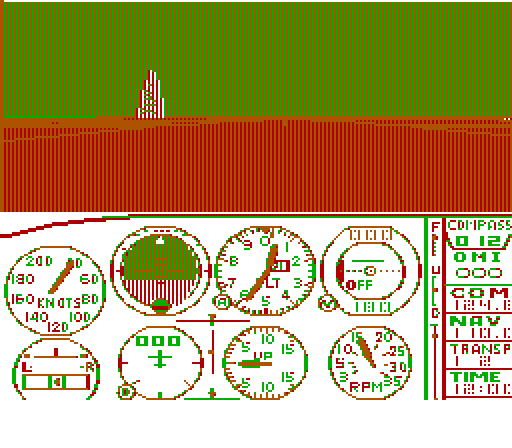
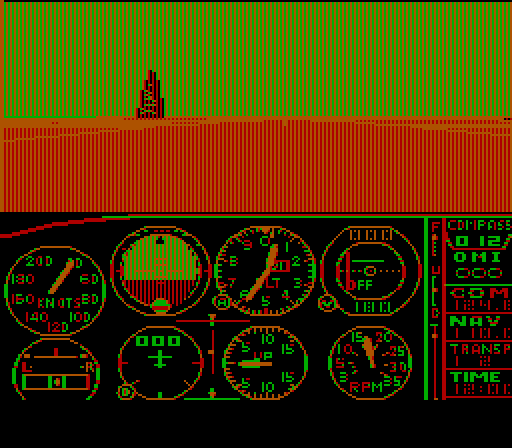
docs: expand compatibility gallery; drop non-working BIGMEM titles
Gallery + "Tested software" table now cover more of what runs on MS-DOS:
- New shots: Zork II, Zork III, Planetfall, Wishbringer (Infocom),
  PC DOS 2.00, and Turbo Pascal 3.01A.
- FS1 gallery image updated to a cleaner in-flight capture.

Drop Elite and Starglider from the compatibility doc: neither renders on the
current build. Starglider ran under the old PC-DOS build and regressed during
the MS-DOS port (it now stalls in what looks like its self-unpacker and never
reaches graphics) -- logged in FUTURE.md as an investigation to bisect. Rogue
is the BIGMEM title that works. Updated COMPATIBILITY.md, FUTURE.md,
BUILDING.md, and the dosboot_big.asm header comment.

Claude-Session: https://claude.ai/code/session_014nK3wEPCoHrVcz85hvr1JS

diff --git a/docs/COMPATIBILITY.md b/docs/COMPATIBILITY.md
@@ -19,15 +19,27 @@ All captured from snes86 running in Mesen.
 <table>
 <tr>
 <td align="center"><img src="assets/boot.png" width="400"><br><sub>MS-DOS 2.0 booting to <code>C:\></code></sub></td>
-<td align="center"><img src="assets/sokoban.png" width="400"><br><sub>Sokoban — our own CGA game, with source</sub></td>
+<td align="center"><img src="assets/pcdos.png" width="400"><br><sub>PC DOS 2.00 — the original bring-up target</sub></td>
 </tr>
 <tr>
 <td align="center"><img src="assets/gwbasic.png" width="400"><br><sub>GW-BASIC 3.23</sub></td>
-<td align="center"><img src="assets/wordstar.png" width="400"><br><sub>WordStar 3.31</sub></td>
+<td align="center"><img src="assets/tp3.png" width="400"><br><sub>Turbo Pascal 3.01 — the compiler that builds our tools</sub></td>
 </tr>
 <tr>
+<td align="center"><img src="assets/wordstar.png" width="400"><br><sub>WordStar 3.31</sub></td>
 <td align="center"><img src="assets/multiplan.png" width="400"><br><sub>Multiplan</sub></td>
+</tr>
+<tr>
 <td align="center"><img src="assets/zork.png" width="400"><br><sub>Zork I — Infocom interactive fiction</sub></td>
+<td align="center"><img src="assets/zork2.png" width="400"><br><sub>Zork II: The Wizard of Frobozz</sub></td>
+</tr>
+<tr>
+<td align="center"><img src="assets/zork3.png" width="400"><br><sub>Zork III: The Dungeon Master</sub></td>
+<td align="center"><img src="assets/planetfall.png" width="400"><br><sub>Planetfall</sub></td>
+</tr>
+<tr>
+<td align="center"><img src="assets/wishbringer.png" width="400"><br><sub>Wishbringer</sub></td>
+<td align="center"><img src="assets/sokoban.png" width="400"><br><sub>Sokoban — our own CGA game, with source</sub></td>
 </tr>
 <tr>
 <td align="center"><img src="assets/rogue.png" width="400"><br><sub>Rogue — the dungeon (needs BIGMEM)</sub></td>
@@ -47,6 +59,7 @@ All captured from snes86 running in Mesen.
 | category | software | status | notes |
 |---|---|---|---|
 | OS / shell | MS-DOS 2.0 (MIT) | ✅ shipped | `DIR`, `PATH`, `PROMPT`, batch files, `VER`, redirection |
+| | PC DOS 2.00 | ✅ tested | the original bring-up target; MS-DOS ships instead, but `.IFDEF PCDOS` still boots it |
 | Our tools | MIDPLAY / MIDCONV | ✅ shipped | the SNES-MIDI synth (below), with source |
 | | SOKOBAN | ✅ shipped | our own CGA-graphics game, with source |
 | | SIEVE / BENCH / HELLO / CGATEST | ✅ shipped | our benchmarks + demos, with source |
@@ -56,7 +69,6 @@ All captured from snes86 running in Mesen.
 | | Multiplan | ✅ tested | spreadsheet grid, `.LOD`/`.SYS` overlays |
 | Interactive fiction | Zork I–III, Planetfall, Leather Goddesses, Hitchhiker's Guide, Wishbringer | ✅ tested | Infocom's later 8086 interpreter |
 | Games | Rogue | ✅ tested* | *needs BIGMEM (see [Memory](#memory)) |
-| | Elite, Starglider | ✅ tested* | *need BIGMEM (172 KB) |
 | | Microsoft Flight Simulator 1 | ✅ tested | self-booting disk (`make fs`), not a DOS program |
 | Benchmarks | Norton SI, CPUBENCH | ✅ tested | CPU/system info + timing loops |
 
@@ -92,9 +104,8 @@ work. Bring your own `.MID` files, convert them, and the SNES plays them.
 
 The default guest has ~108 KB of conventional RAM — enough for MS-DOS plus the
 software above. A handful of memory-hungry titles need more. The BIGMEM build
-(`make big`) extends the guest to 172 KB using cartridge SRAM, which revives Rogue,
-Elite (~99 KB), and Starglider (~95 KB). BIGMEM is an experiment (see
-[FUTURE.md](FUTURE.md)); most software needs only the default build.
+(`make big`) extends the guest to 172 KB using cartridge SRAM, which revives Rogue.
+BIGMEM is an experiment; most software needs only the default build.
 
 ## Known limitations
 

diff --git a/docs/FUTURE.md b/docs/FUTURE.md
@@ -21,7 +21,7 @@ Reports, screenshots, and videos are genuinely wanted. See
 ## More guest RAM (make BIGMEM fast)
 
 The default guest has ~108 KB. The BIGMEM build extends it to 172 KB using
-cartridge SRAM, which revives memory-hungry titles (Rogue, Elite, Starglider) — but
+cartridge SRAM, which revives memory-hungry titles (Rogue) — but
 it's currently ~1.7× slower than the standard build, so it's shipped only as an
 experiment (`make big`).
 
@@ -39,9 +39,13 @@ it:
   gives up.
 
 There's also a known correctness edge (an instruction whose *immediate* spills across
-the seam) that would need seam-safe operand fetch — the likely reason Elite's
-EXEPACK'd binary still doesn't unpack under BIGMEM. Start at the `lda [bCS],y` fetch
+the seam) that would need seam-safe operand fetch. Start at the `lda [bCS],y` fetch
 sites in `cpu.asm`/`cpu2.asm` if you reopen this.
+
+**Starglider regression (to investigate).** Starglider ran under the earlier PC-DOS
+build but stopped working after the port to MS-DOS — it now crawls (apparently stuck
+in its self-unpacker) and never reaches graphics. Something the MS-DOS port changed
+broke it; bisecting the PC-DOS→MS-DOS diff is the place to start.
 
 ## CPU performance
 

diff --git a/docs/BUILDING.md b/docs/BUILDING.md
@@ -51,7 +51,7 @@ What each one actually is:
 
 - `make big` — `dev` plus BIGMEM: the guest grows from ~108 KB to 172 KB by backing
   the extra conventional RAM with cartridge SRAM, which revives the memory-hungry
-  titles (Rogue, Elite, Starglider). Same full C: as `dev`. It's an experiment —
+  Rogue. Same full C: as `dev`. It's an experiment —
   see BIGMEM in [INTERNALS.md](INTERNALS.md) and [FUTURE.md](FUTURE.md).
 
 - `make fs` — boots the Microsoft Flight Simulator 1 self-booting disk directly
